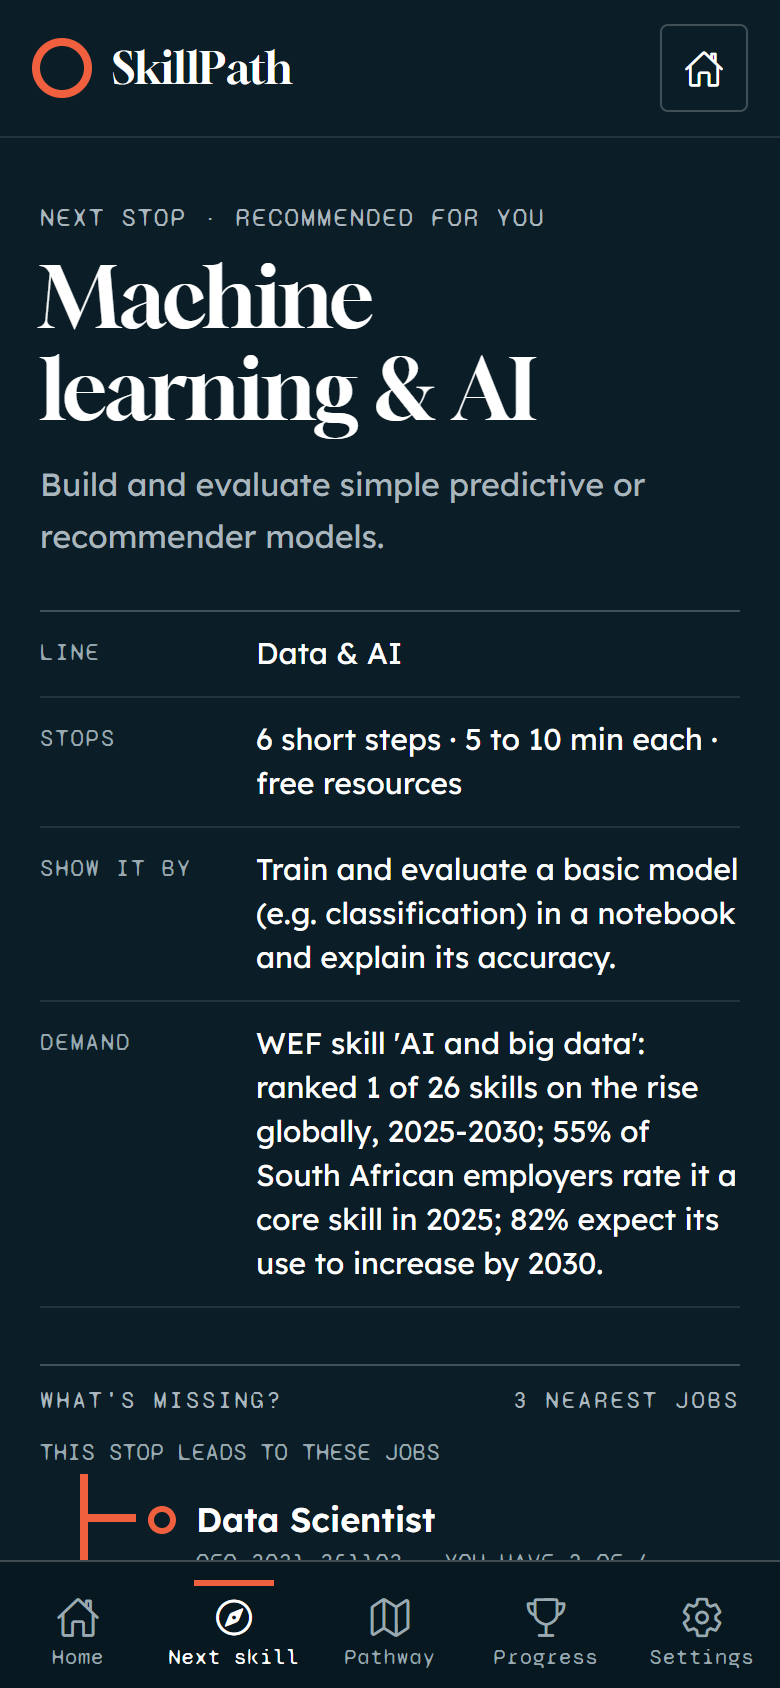
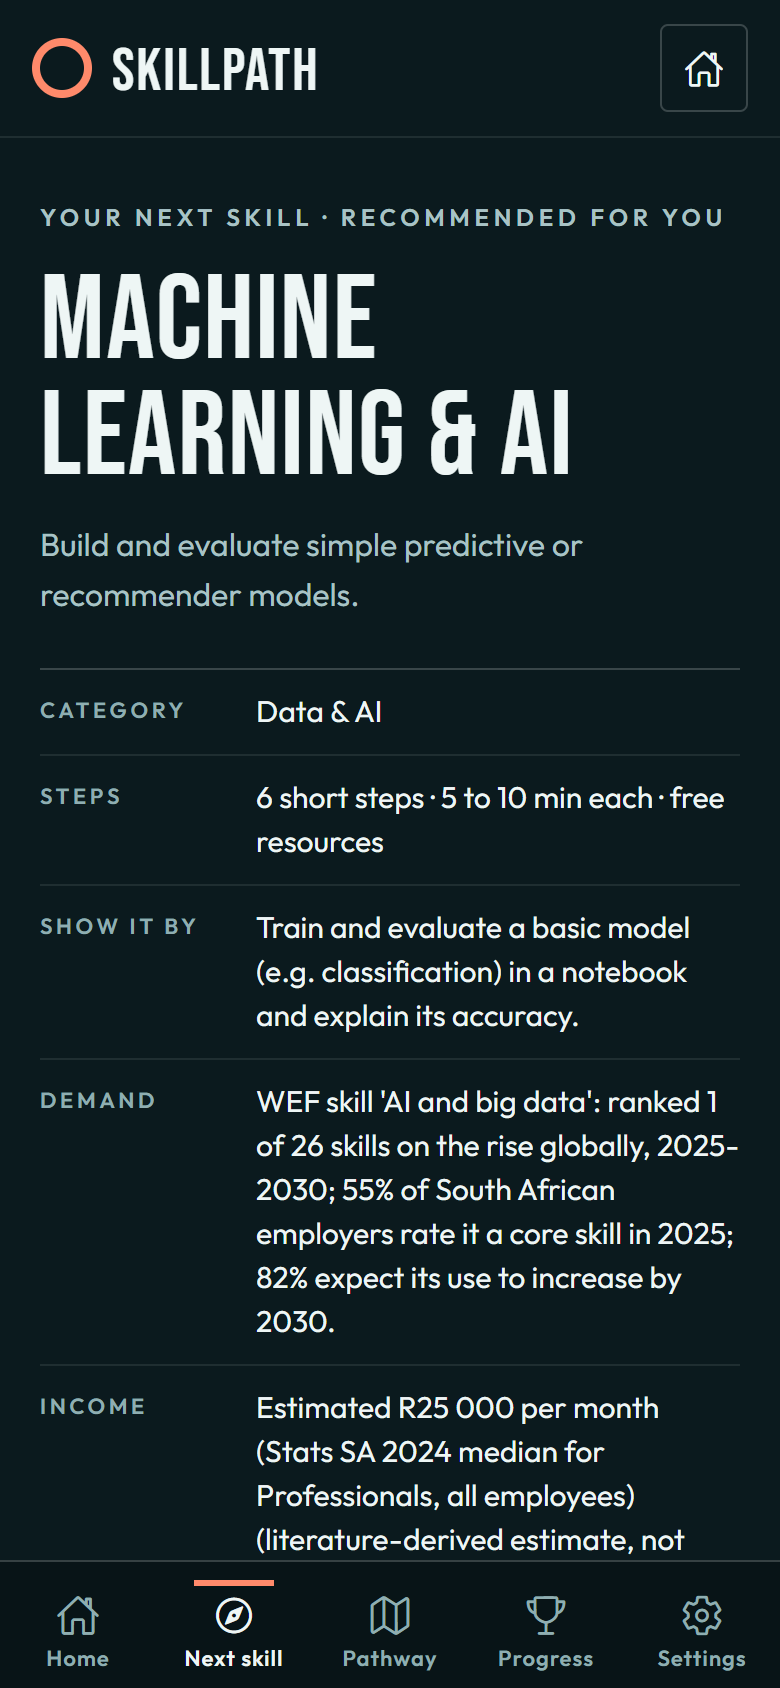
Recapture report Figures 8-11 from the current app [skip render]
- capture_screens.py: waits for fonts and skill details; Figure 8a shows
  the consent and age checkboxes its caption names
- refresh_report_figures.py: swaps only the four figure images in the
  final report, finding each by its caption; everything else byte-for-byte
- Decision #79

diff --git a/scripts/refresh_report_figures.py b/scripts/refresh_report_figures.py
@@ -1,0 +1,77 @@
+"""Replace the app screenshots (Figures 8-11) in the research report with fresh captures of the current app.
+
+    python scripts/capture_screens.py                              (research build, not the demo)
+    python scripts/refresh_report_figures.py IN.docx OUT.docx
+
+Only the four image files change: the output is a byte-for-byte copy of the input apart from those images, so
+captions, picture sizes, page layout and all other content stay exactly as they are. Each figure is found by its
+caption, and the script stops rather than replace a picture it cannot match.
+"""
+
+import io
+import os
+import sys
+import zipfile
+
+from docx import Document
+from docx.oxml.ns import qn
+from PIL import Image
+
+from refine_exemplar import SHOTS, app_panel
+
+# caption prefix -> the two panels (screenshot from capture_screens.py, annotation under it)
+FIGURES = {
+    "Figure 8:": [("fig1_welcome.png", "Consent and age check; no name, email or phone"),
+                  ("fig2_profile_cv.png", "Local AI proposes skills from the CV; user confirms")],
+    "Figure 9:": [("fig3a_recommendation.png", "One recommended skill with its demand evidence"),
+                  ("fig3b_transparency.png", "Transparency: nearest occupations and missing skills")],
+    "Figure 10:": [("fig4_pathway.png", "Six 5-10 minute steps; difficulty shown as dots"),
+                   ("fig_home.png", "Home: pathway progress and one-tap navigation")],
+    "Figure 11:": [("fig5_progress.png", "Milestone every three completed steps"),
+                   ("fig_settings.png", "View and delete my data (POPIA)")],
+}
+
+
+def picture_above(pars, caption_index):
+    """The picture elements in the nearest paragraph above a caption (none for a table-of-figures entry)."""
+    for k in range(caption_index - 1, max(caption_index - 3, -1), -1):
+        blips = pars[k]._p.findall(".//" + qn("a:blip"))
+        if blips:
+            return blips
+    return []
+
+
+def main(src, dst):
+    if os.path.abspath(src) == os.path.abspath(dst):
+        raise SystemExit("write to a new file; the input report is left untouched")
+    doc = Document(src)
+    pars = doc.paragraphs
+    replace = {}  # zip entry name -> new PNG bytes
+    for prefix, panels in FIGURES.items():
+        caps = [k for k, p in enumerate(pars) if p.text.startswith(prefix) and picture_above(pars, k)]
+        if len(caps) != 1:
+            raise SystemExit(f"expected one captioned picture for '{prefix}', found {len(caps)}")
+        blips = picture_above(pars, caps[0])
+        if len(blips) != 1:
+            raise SystemExit(f"expected one picture above '{prefix}', found {len(blips)}")
+        part = doc.part.related_parts[blips[0].get(qn("r:embed"))]
+        png = os.path.join(SHOTS, f"report_{prefix[:-1].replace(' ', '_').lower()}.png")
+        app_panel(panels, png)
+        old, new = Image.open(io.BytesIO(part.blob)).size, Image.open(png).size
+        if old != new:  # same pixel size keeps the picture's shape on the page
+            raise SystemExit(f"{prefix} new picture is {new}, the report's is {old}")
+        with open(png, "rb") as f:
+            replace[part.partname.lstrip("/")] = f.read()
+        print(f"{prefix:11} {part.partname} <- {os.path.basename(png)}")
+    with zipfile.ZipFile(src) as zin, zipfile.ZipFile(dst, "w") as zout:
+        for item in zin.infolist():
+            zout.writestr(item, replace.pop(item.filename, None) or zin.read(item.filename))
+    if replace:
+        raise SystemExit(f"not found in the package: {sorted(replace)}")
+    print("saved", dst)
+
+
+if __name__ == "__main__":
+    if len(sys.argv) != 3:
+        sys.exit(__doc__)
+    main(sys.argv[1], sys.argv[2])

diff --git a/scripts/capture_screens.py b/scripts/capture_screens.py
@@ -1,7 +1,9 @@
-"""Capture the app screenshots for Figures 2-5 of the Part 3 report (phone-sized, 2x resolution).
+"""Capture the app screenshots for Figures 8-11 of the research report (phone-sized, 2x resolution).
 
-    (start the API on :8000 and the web app on :8081 first, e.g. .\\start.ps1)
+    (start the API on :8000 and the web app on :8081 first, e.g. .\\start.ps1, or set SKILLPATH_APP_URL
+     to a research build served by deploy/server.py; not the demo build, whose wording differs)
     python scripts/capture_screens.py            -> docs/exemplar/figures/*.png
+    python scripts/refresh_report_figures.py IN.docx OUT.docx   (puts them into the report)
 
 Drives the real web app with Playwright using the installed Microsoft Edge (channel "msedge"), so no browser
 download is needed. Uses the watermarked example CV EXAMPLE_CV_SP15.pdf.
@@ -26,7 +28,11 @@ def main():
         shot = lambda name: page.screenshot(path=os.path.join(OUT, name)) or print("saved", name)
         page.goto(URL)
         page.get_by_text("Find your next skill").first.wait_for(timeout=60000)
+        page.evaluate("document.fonts.ready.then(() => true)")  # Bebas Neue and Outfit, not the fallback font
         page.wait_for_timeout(1000)
+        # what is stored, the disclaimer, and the consent and age checkboxes in one view (Figure 8a)
+        page.get_by_text("What we store").first.evaluate("e => e.scrollIntoView({block: 'start'})")
+        page.wait_for_timeout(500)
         shot("fig1_welcome.png")
 
         page.get_by_role("checkbox", name="I understand what SkillPath stores and I agree to take part.").click()
@@ -43,7 +49,8 @@ def main():
 
         page.get_by_role("radio").nth(1).click()  # "I know the basics"
         page.get_by_role("button", name="Find my next skill").click()
-        page.get_by_text("Recommended for you").wait_for(timeout=30000)
+        page.get_by_text("Recommended for you").first.wait_for(timeout=30000)
+        page.get_by_text("Show it by").first.wait_for(timeout=30000)  # skill details loaded
         page.wait_for_timeout(800)
         shot("fig3a_recommendation.png")
         page.get_by_text("What's missing?").first.evaluate("e => e.scrollIntoView({block: 'start'})")

diff --git a/DECISIONS.md b/DECISIONS.md
@@ -83,3 +83,4 @@ researcher's specification (`CLAUDE_CODE_PROMPT.md`) with Claude Code; see AI_US
 | 76 | 2026-11-13 | Hosted demo for supervisors and markers on Render's free plan (`Dockerfile`, `render.yaml`, `deploy/server.py`, `DEPLOY.md`): the web export and the API served from one address (`/` and `/api`). Demo mode (`SKILLPATH_DEMO=1`, `EXPO_PUBLIC_DEMO=1`) shows a "Public demo … Not part of the study" notice on every screen, replaces the privacy and consent wording (data stays on the demo server until it restarts and is never study data; "I understand what this demo stores" instead of "I agree to take part"), and empties the database on every start; admin export stays disabled. The CV reader takes optional `SKILLPATH_CV_THREADS`/`SKILLPATH_CV_BATCH` limits (set to 1 and 32 only in the demo image), cutting peak memory from about 475 MB to 249 MB to fit the 512 MB instance with the same model and scores; local research runs leave them unset. Verified locally end to end (consent, CV upload, recommendation, step, delete); 102 tests pass. | DD8 | Live tunnel from the researcher's computer; password-protected demo | The demo must work with the computer off; the ethics clearance covers no human participants, so visitor data is kept out of the study and short-lived. |
 | 77 | 2026-11-13 | Restyled in the "Ocean night" palette chosen by the researcher, taking design language only (not content or colours) from markusfourie.dev: deep teal ground (#0B1A1E), aqua for actions (#5FD3C6), coral for the route line and numerals (#FF8A6B), sand only for "you are here" (#F2D49B, new `here` token); Bebas Neue for big condensed uppercase display type and Outfit for text, with uppercase letter-spaced labels and readouts; pill buttons and chips, softly rounded panels. Route-map structure and all content unchanged. Lexend, Gloock and Syne Mono removed. All text pairs pass WCAG AA (lowest 7.1:1). The demo banner was removed at the researcher's request; the Welcome screen keeps the demo privacy wording. Verified on the demo build: every screen, no browser errors. | DD5 | Fynbos, Highveld ember, current navy | Researcher's choice. |
 | 78 | 2026-11-13 | App aligned with the final research report's capability claims, the app changed to match the report (not the reverse): screens say "steps" and "pathway" as the report does (Home, Next skill, Pathway, Progress, route map; the engine's reminder text still says "modules" and is reworded only on display, so evaluated engine code is unchanged); step 1 now links a free resource (Wikipedia overview) like steps 2-6, so all six steps have one; checkbox, radio, tab and expander states exposed to the web (aria-checked/selected/expanded). Demo-only "For markers" tools in Settings, registered only when `SKILLPATH_DEMO=1` (404 in research builds): switch the income version (A shows the Stats SA income estimate, B none; the recommendation is identical) and simulate two days without activity, which moves the last activity and last reminder back in time so the real DD7 rule decides (reminder tied to the next milestone, at most once a day, stops after three unopened, reset by activity). A scripted walkthrough checked 37 report claims on the demo build; all pass with no browser errors. | DD3-DD9 | Change the report to match the app | Markers must be able to see each claimed capability without waiting days. |
+| 79 | 2026-11-13 | Report Figures 8-11 recaptured from the current research build (Ocean night design, report wording) with `scripts/capture_screens.py` and placed in the researcher's final report by `scripts/refresh_report_figures.py`, which finds each figure by its caption and swaps only the four image files: the output is otherwise byte-for-byte the input (captions, sizes, pagination unchanged). Figure 8(a) now scrolls to show the consent and age checkboxes its caption names, with the "what we store" list and the not-advice notice. Captured from the research build, not the public demo, whose consent wording differs. | DD1-DD8 | Leave the old navy/gold screenshots | Figures must show the app as it is. |
